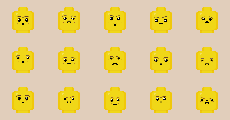
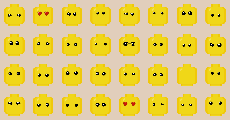
updated arangement
updated num across and num down

diff --git a/arrangement.js b/arrangement.js
@@ -6,8 +6,8 @@ const canvasWidth = 960;
 const canvasHeight = 500;
 let curRandomSeed = 0;
 
-let num_across = 10;
-let num_down = 5;
+let num_across = 8;
+let num_down = 4;
 
 let lastSwapTime = 0;
 const millisPerSwap = 5000;
